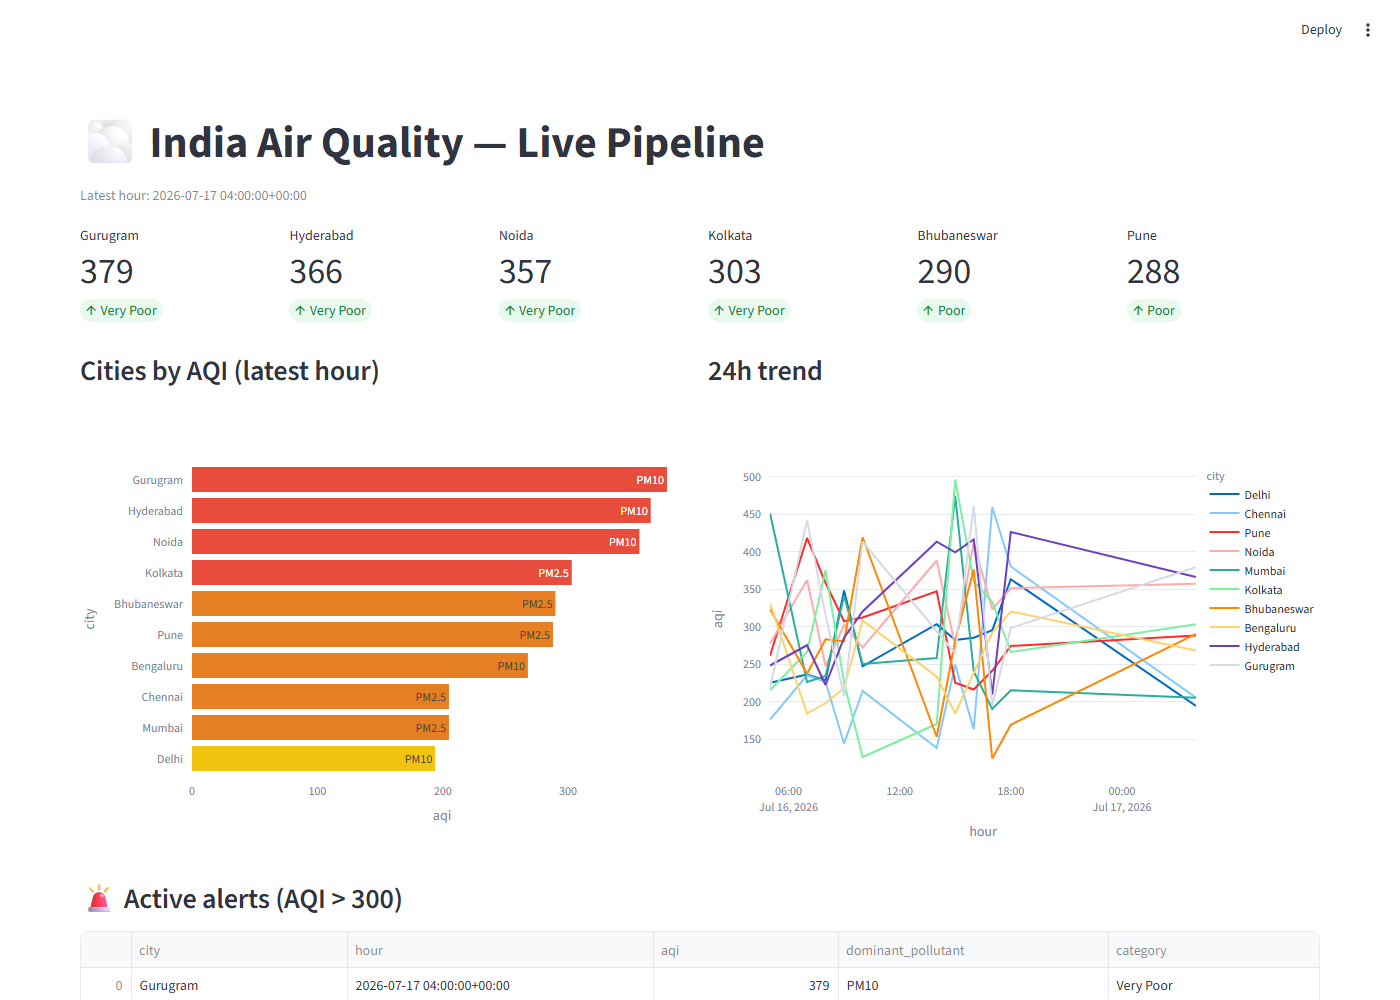
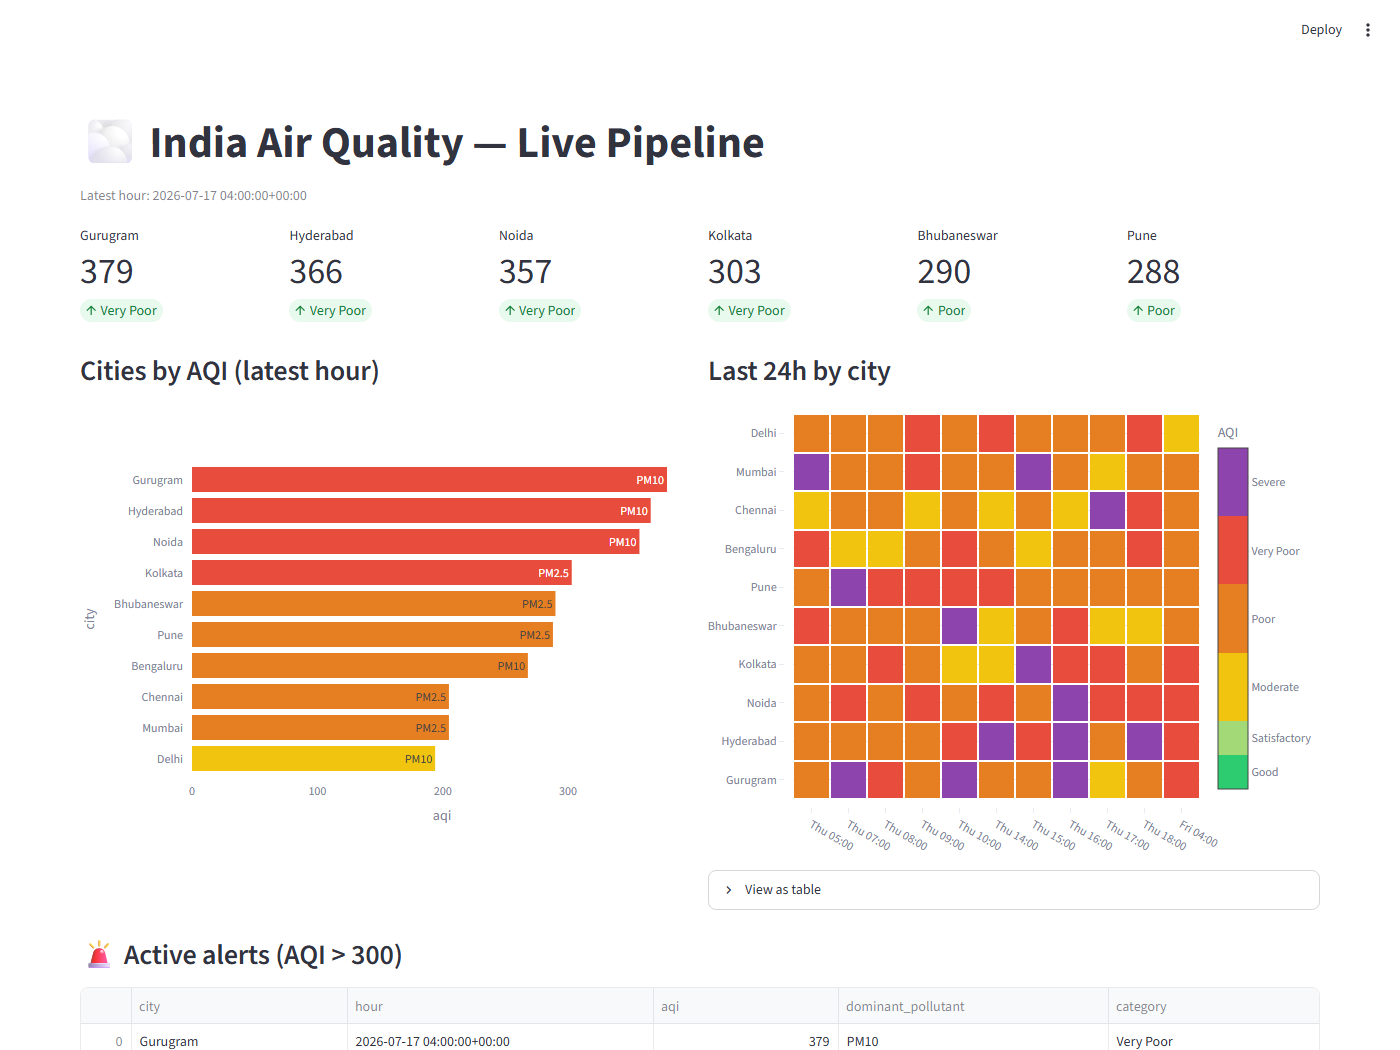
dashboard changes

diff --git a/dashboard/app.py b/dashboard/app.py
@@ -3,6 +3,7 @@ import os
 
 import pandas as pd
 import plotly.express as px
+import plotly.graph_objects as go
 import psycopg2
 import streamlit as st
 
@@ -60,17 +61,50 @@ with left:
     st.plotly_chart(fig, use_container_width=True)
 
 with right:
-    st.subheader("24h trend")
+    st.subheader("Last 24h by city")
     trend = load("""
         select city, hour, aqi from public_marts.mart_city_hourly_aqi
         where hour > now() - interval '24 hours'
         order by hour
     """)
-    if not trend.empty:
-        st.plotly_chart(
-            px.line(trend, x="hour", y="aqi", color="city"),
-            use_container_width=True,
-        )
+    if trend.empty:
+        st.info("Not enough history yet — check back after a few more hourly runs.")
+    else:
+        # A 10-line overlay has no readable trend here (each hourly poll is an
+        # independent draw, not a continuous series) and is well past the
+        # legible series count anyway. A heatmap shows the same worst-hour /
+        # worst-city pattern without implying a false continuity between points.
+        pivot = trend.pivot(index="city", columns="hour", values="aqi")
+        pivot = pivot.reindex(pivot.iloc[:, -1].sort_values(ascending=False).index)
+
+        # Discrete steps at the real CPCB band breakpoints (0/50/100/200/300/400/500),
+        # using the same colors as the category bar chart above — not a generic ramp.
+        aqi_colorscale = [
+            [0.00, CATEGORY_COLORS["Good"]], [0.10, CATEGORY_COLORS["Good"]],
+            [0.10, CATEGORY_COLORS["Satisfactory"]], [0.20, CATEGORY_COLORS["Satisfactory"]],
+            [0.20, CATEGORY_COLORS["Moderate"]], [0.40, CATEGORY_COLORS["Moderate"]],
+            [0.40, CATEGORY_COLORS["Poor"]], [0.60, CATEGORY_COLORS["Poor"]],
+            [0.60, CATEGORY_COLORS["Very Poor"]], [0.80, CATEGORY_COLORS["Very Poor"]],
+            [0.80, CATEGORY_COLORS["Severe"]], [1.00, CATEGORY_COLORS["Severe"]],
+        ]
+        fig = go.Figure(go.Heatmap(
+            z=pivot.values,
+            x=pivot.columns.strftime("%a %H:%M"),
+            y=pivot.index,
+            zmin=0, zmax=500,
+            colorscale=aqi_colorscale,
+            xgap=2, ygap=2,
+            colorbar=dict(
+                title="AQI",
+                tickvals=[25, 75, 150, 250, 350, 450],
+                ticktext=list(CATEGORY_COLORS.keys()),
+            ),
+            hovertemplate="%{y} — %{x}<br>AQI %{z}<extra></extra>",
+        ))
+        fig.update_layout(margin=dict(l=0, r=0, t=10, b=0))
+        st.plotly_chart(fig, use_container_width=True)
+        with st.expander("View as table"):
+            st.dataframe(pivot, use_container_width=True)
 
 st.subheader("🚨 Active alerts (AQI > 300)")
 alerts = load("select * from public_marts.mart_aqi_alerts order by aqi desc")